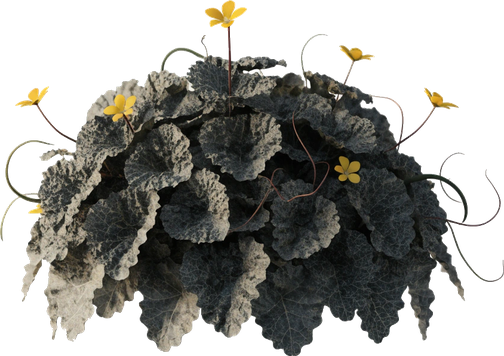
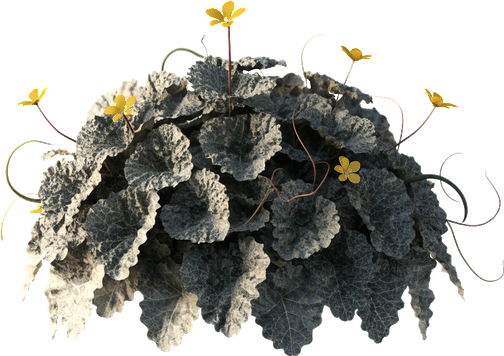
スノードロップのアイコンを追加、スイカの段階 2 の葉を明るく（#66）
- 置き直された icon_snowdrop.png（枯れの絵とは別物、C2PA は Recraft）でアイコンを作り、itemIconRes に登録。WRONG_ICONS を削除
- スイカの段階 2 の葉を段階 3 と同じ明るさに（LEAF_GAIN 1.3、全チャンネル同倍率で色味は同じ、黄色い花は除く）
- prepare_drawable_art.py のアイコンは、このスクリプトで作る作物の分だけ作る（source_art に先に置かれた次の作物の素材は触らない）
- アトラスを詰め直し、ASSET_LEDGER.md・ASSETS.md・ROADMAP.md を更新

diff --git a/app/src/test/java/com/studioguu/miniaturegarden/data/asset/BundledArtTest.kt b/app/src/test/java/com/studioguu/miniaturegarden/data/asset/BundledArtTest.kt
@@ -210,7 +210,7 @@ class BundledArtTest {
     }
 
     @Test
-    fun `snowdrop has its pictures in three stages, standing on the foot of its leaves (#64)`() {
+    fun `snowdrop has its pictures in three stages and its icon, standing on the foot of its leaves (#64, #66)`() {
         assertEquals(3, PlantSpecies.SNOWDROP.growthStages)
         val ids = TileSetDefinition.spriteIdsFor(PlantSpecies.SNOWDROP)
         assertEquals(listOf("plant_snowdrop_stage1", "plant_snowdrop_stage2", "plant_snowdrop_stage3", "plant_snowdrop_withered"), ids)
@@ -218,8 +218,8 @@ class BundledArtTest {
         assertFalse(manifest.assets.any { it.assetId == "plant_snowdrop_stage4" })
         val stages = ids.dropLast(1).map { id -> manifest.assets.single { it.assetId == id } }
         stages.zipWithNext { a, b -> assertTrue("${a.assetId} -> ${b.assetId}", a.width < b.width && a.height < b.height) }
-        // The icon that came was a copy of the withered picture: the seed keeps its emoji for now.
-        assertFalse(File(main, "res/drawable-nodpi/icon_snowdrop.png").exists())
+        // #66: its icon, which first came as a copy of the withered picture, is the right one now.
+        assertTrue(File(main, "res/drawable-nodpi/icon_snowdrop.png").isFile)
     }
 
     @Test

diff --git a/app/src/main/java/com/studioguu/miniaturegarden/ui/UiLabels.kt b/app/src/main/java/com/studioguu/miniaturegarden/ui/UiLabels.kt
@@ -149,6 +149,7 @@ fun itemIconRes(item: GardenItem): Int? = when (item) {
     GardenItem.SEED_MINT -> R.drawable.icon_mint
     GardenItem.SEED_COSMOS -> R.drawable.icon_cosmos
     GardenItem.SEED_WATERMELON -> R.drawable.icon_watermelon
+    GardenItem.SEED_SNOWDROP -> R.drawable.icon_snowdrop
     else -> null
 }
 

diff --git a/tools/prepare_drawable_art.py b/tools/prepare_drawable_art.py
@@ -89,9 +89,13 @@ CUT: dict[str, dict] = {
     "snowdrop": {"white_petals": True},
 }
 
-#: Icons in source_art that are not the picture they are named for, and so are not made (the item
-#: keeps its emoji): icon_snowdrop.png came as a copy of crop_snowdrop_withered.png (#64).
-WRONG_ICONS = {"icon_snowdrop"}
+#: Pictures whose leaves are brought up to the brightness of the rest of their crop, by this gain
+#: (every channel alike, so their colour stays as it is; yellow flowers are left alone). The
+#: watermelon's stage 2 (#66) came with leaves of a near-black grey-green that read as burnt on the
+#: bed: their median brightness was 51 against stage 3's 66.
+LEAF_GAIN: dict[str, float] = {
+    "plant_watermelon_stage2": 1.3,
+}
 
 #: The tulip's flowers (#58): red is its plain stage 3, the others are variants of it.
 TULIP_COLOURS = ["pink", "yellow", "white", "purple", "blue"]
@@ -301,6 +305,16 @@ def simple_stages(name: str, suffix: str) -> list[np.ndarray]:
     return [crop(load_cut(f"crop_{name}{suffix}{n}.png", **CUT.get(name, {}))) for n in (1, 2, 3)]
 
 
+def brighter_leaves(rgba: np.ndarray, gain: float) -> np.ndarray:
+    """[rgba] with all but its yellow flowers [gain] times as bright, each channel alike."""
+    rgb = rgba[:, :, :3].astype(float)
+    r, g, b = rgb[..., 0], rgb[..., 1], rgb[..., 2]
+    yellow = (r > 140) & (g > 110) & (b < 100) & (r - b > 70)
+    out = rgba.copy()
+    out[:, :, :3] = np.where(yellow[..., None], rgb, np.clip(rgb * gain, 0, 255)).astype(np.uint8)
+    return out
+
+
 def to_size(rgba: np.ndarray, size) -> np.ndarray:
     h, w = rgba.shape[:2]
     if isinstance(size, tuple):
@@ -337,7 +351,10 @@ def prepare_crops() -> dict[str, tuple[np.ndarray, dict | None]]:
         sized = [to_size(p, s) for p, s in zip(pictures, STAGES[crop_name])]
         for n, picture in enumerate(sized, start=1):
             override = field_anchor(picture) if crop_name == "wheat" else ANCHORS.get(f"plant_{crop_name}_stage{n}")
-            out[f"plant_{crop_name}_stage{n}"] = (picture, override)
+            asset_id = f"plant_{crop_name}_stage{n}"
+            if asset_id in LEAF_GAIN:
+                picture = brighter_leaves(picture, LEAF_GAIN[asset_id])
+            out[asset_id] = (picture, override)
         if crop_name in WITHERED:
             dead = to_size(crop(load_cut(f"crop_{crop_name}_withered.png", **CUT.get(crop_name, {}))), WITHERED[crop_name])
             out[f"plant_{crop_name}_withered"] = (dead, field_anchor(dead) if crop_name == "wheat" else ANCHORS.get(f"plant_{crop_name}_withered"))
@@ -352,7 +369,8 @@ def prepare_crops() -> dict[str, tuple[np.ndarray, dict | None]]:
 def prepare_icons() -> dict[str, np.ndarray]:
     out = {}
     for path in sorted(SOURCE.glob("icon_*.png")):
-        if path.stem in WRONG_ICONS:
+        # Only the crops prepared here: source_art also holds art for crops still to come (#66).
+        if path.stem.removeprefix("icon_") not in STAGES:
             continue
         rgba = crop(load_cut(path.name, **CUT.get(path.stem.removeprefix("icon_"), {})))
         h, w = rgba.shape[:2]

diff --git a/docs/ASSETS.md b/docs/ASSETS.md
@@ -15,7 +15,7 @@
 | `app/src/main/res/drawable/soil_tilled.png` | 耕した土（畝 3 本）の板（#57）。上面を畑の 1 マスに敷く | 受け取ったまま（1024×1024、白背景）。`GroundSlab.TILLED` |
 | `app/src/main/res/drawable/soil_revived.png` | 鍬で崩しかけた地面（畝の無い、ほぐれた土）の板（#57。#61 から荒れ地と畑の**あいだの段階**。#57〜#60 はたい肥入りの畑に使っていた） | 受け取ったまま（1024×1024、白背景）。`GroundSlab.REVIVED`、`TerrainTextures.broken` |
 | `app/src/main/res/drawable/pond_center.png` | 水面だけの 1 マス（#57）。池どうしのつなぎ目の水と、#61 から四方を池に囲まれた池（池の真ん中）の水面 | 受け取ったまま（1024×1024、白背景）。`GroundSlab.POND_CENTER`、`TerrainTextures.pondWater`。色は池の絵の水にそろえて使う |
-| `app/src/main/res/drawable-nodpi/icon_{tomato,strawberry,carrot,eggplant,wheat,corn,mint,cosmos,watermelon}.png` | 持ち物・ショップのアイコン（#57、ミントは #62、コスモスは #63、スイカは #65） | `tools/prepare_drawable_art.py` が原画から切り抜き、256×256 に |
+| `app/src/main/res/drawable-nodpi/icon_{tomato,strawberry,carrot,eggplant,wheat,corn,mint,cosmos,watermelon,snowdrop}.png` | 持ち物・ショップのアイコン（#57、ミントは #62、コスモスは #63、スイカは #65、スノードロップは #66） | `tools/prepare_drawable_art.py` が原画から切り抜き、256×256 に |
 | `app/src/main/res/drawable/pond.png` | 池（`deco_pond`） | `tools/source_art/pond.png` をそのままコピー（1536×768）。上面の位置は `GroundSlab.POND` |
 | `app/src/main/res/raw/` | BGM 5 曲（タイトル・春・夏・秋・冬）、効果音 8 個（mp3） | 外部で用意されたもの |
 
@@ -58,12 +58,12 @@
   原画は `crop_snowdrop_stage{1..3}.png` と `crop_snowdrop_withered.png`（Recraft、白背景）。大きさ（`STAGES`）は背の低い花として 0.3 / 0.48 / 0.62、枯れ 0.62（枯れは葉が外へ垂れるので段階 3 より横に広い）。
   1 段階目は根元に白いひげ根が出ていたので、葉の束の下端（下から 5 分の 1 のうち、束より 15% 以上広がる最初の行）から下を切り落とした（`without_roots`）。接地点は葉の根元。
   花びらが白く、ふつうの白の切り抜きでは花びらの灰色の陰が背景とみなされ欠けた。花のまわり（絵の上 5 分の 4）だけ、真っ白（246 以上）だけを背景として抜く（`CUT`、`cut_out` の `white_petals`）。茎の間に閉じ込められた真っ白も、広い所だけ抜く。
-  **アイコンは使っていない**：届いた `icon_snowdrop.png` が枯れた絵（`crop_snowdrop_withered.png`）と画素まで同じだったため、作らずに絵文字のまま（`WRONG_ICONS`）。正しい絵が届いたら `WRONG_ICONS` から外して作り直す。
+  アイコン `icon_snowdrop.png` は #64 では枯れた絵の複製が届いたので使わず、#66 で正しい絵に置き直して作った（白い花なので、切り抜きは株と同じ `white_parts`）。
   `crop_soil.SOILLESS` に `snowdrop` を追加。
 - スイカ（#65、4 枚）：`plant_watermelon_stage{1..3}.png` と `_withered.png`（3 段階。#65 で 4 段階から 3 段階にし、コード描画をやめた）。
   原画は `crop_watermelon_stage{1..3}.png` と `crop_watermelon_withered.png`（Recraft、白背景）。2・3 段階目と枯れは茎の根元の無い、低く横に広い葉の山（3 段階目は手前下に縞の実）なので、
   大きさは高さでなく横幅で決めた：1 段階目は高さ 0.3（苗の決まり `CropScale` でさらに縮む）、2 段階目は幅 0.7、3 段階目と枯れは幅 0.85（1 マスを超えない。`BundledArtTest` で確認）。
-  接地点は `asset_packer.py` が絵の下の方に自動で置く（2 段階目 0.98、3 段階目 0.94、枯れ 1.0）。2 段階目の葉は届いた絵のまま黒に近い灰緑（色は変えていない）。
+  接地点は `asset_packer.py` が絵の下の方に自動で置く（2 段階目 0.98、3 段階目 0.94、枯れ 1.0）。2 段階目の葉は届いた絵では黒に近い灰緑で、畑の上で焦げたように見えたため、#66 で 3 段階目の葉と同じ明るさまで上げた（`LEAF_GAIN`、全チャンネル同じ倍率 1.3 なので色味は同じ。黄色い花は上げない）。
   `crop_soil.SOILLESS` に `watermelon` を追加。
 - フェンス 3 枚：`struct_fence.png`（単体の柵）、`struct_fence_post.png`（支柱）、`struct_fence_rail.png`（現在は未使用）
 
@@ -77,7 +77,7 @@
 
 `domain/model/GardenItem.kt` の全 35 品。並びはショップの棚（種・建物・飾り）ごと。
 「確定アセット」は庭に置いたときの絵が受け取った画像素材のもの、「コード描画（仮置き）」は絵が無くプログラムで描いているもの。
-アイコンは、作物 9 種（トマト・イチゴ・ニンジン・ナス・小麦・トウモロコシ・ミント・コスモス・スイカ）だけが画像（`res/drawable-nodpi/icon_*.png`、`itemIconRes`）、ほかは絵文字（`itemEmoji`）。
+アイコンは、作物 10 種（トマト・イチゴ・ニンジン・ナス・小麦・トウモロコシ・ミント・コスモス・スイカ・スノードロップ）だけが画像（`res/drawable-nodpi/icon_*.png`、`itemIconRes`）、ほかは絵文字（`itemEmoji`）。
 
 | 棚 | 品名（id） | 値段 | 解放 | 庭での絵 | 素材 |
 |---|---|---|---|---|---|
@@ -85,7 +85,7 @@
 | 種 | ひまわりの種（`seed_sunflower`） | 35 | Lv2 | 確定アセット | `plant_sunflower_*`（#58） |
 | 種 | バラの苗（`seed_rose`） | 60 | Lv4 | 確定アセット（旧画風） | `plant_rose_*`（4 段階） |
 | 種 | コスモスの種（`seed_cosmos`） | 20 | 最初から | 確定アセット | `plant_cosmos_*`（#63、3 段階）、アイコン画像あり |
-| 種 | スノードロップの球根（`seed_snowdrop`） | 20 | 最初から | 確定アセット | `plant_snowdrop_*`（#64、3 段階）。アイコンは絵文字のまま（届いた絵が枯れた絵の複製だった） |
+| 種 | スノードロップの球根（`seed_snowdrop`） | 20 | 最初から | 確定アセット | `plant_snowdrop_*`（#64、3 段階）、アイコン画像あり（#66） |
 | 種 | ミントの苗（`seed_mint`） | 15 | 最初から | 確定アセット | `plant_mint_*`（#62、3 段階）、アイコン画像あり |
 | 種 | トマトの苗（`seed_tomato`） | 20 | 最初から | 確定アセット | `plant_tomato_*`（#57）、アイコン画像あり |
 | 種 | イチゴの苗（`seed_strawberry`） | 20 | 最初から | 確定アセット | `plant_strawberry_*`（#57）、アイコン画像あり |
@@ -150,7 +150,7 @@
 | `building_windmill_blades.jpg` | 風車の羽根（#40）。同じく白と灰色の市松模様（約 12px）と、白いにじみが描き込まれていた。色で抜いた |
 | `tile_grass_iso.png` | 芝生（#57、受け取ったときは `res/drawable/tile_grass.png`）。白背景のアイソメの芝の板（1024×1024）。`prepare_drawable_art.flat_lawn` が上面を真上から見た正方形（720 px）に戻し、`flat_to_tile` で中央の正方形の半分（`share=0.5`）を 2:1 のひし形へ貼り、ぼかし 1.2px、厚み 55px の側面を足して `tile_grass` に。細かい葉のままだとスマホで約 7 分の 1 に縮んだとき砂嵐のようにちらつくため、葉を大きく柔らかくしている。#53 の `tile_lawn_flat.png` はこれに置き換えて削除 |
 | `crop_*.png`（51 枚） | 作物の原画（#57・#58・#62〜#65）。トウモロコシ・ナス・小麦・ひまわり・ミント・コスモス・スノードロップ・スイカは `_stage1`〜`3` と `_withered`、トマト・イチゴは `_1`〜`3` と `_withered`、ニンジンは `_1`・`_3`・`_withered`、チューリップは `_stage1`・`_stage2` と 6 色の `_<色>_stage3` | `prepare_drawable_art.py` が切り抜いて `raw_assets/plant_*` に |
-| `icon_*.png`（10 枚） | アイコンの原画（#57、ミントは #62、コスモスは #63、スイカは #65）。`icon_snowdrop.png`（#64）は枯れた絵の複製だったので使っていない | `prepare_drawable_art.py` が切り抜いて `res/drawable-nodpi/` に |
+| `icon_*.png`（10 枚） | アイコンの原画（#57、ミントは #62、コスモスは #63、スイカは #65）。`icon_snowdrop.png` は #64 では枯れた絵の複製だったが、#66 で正しい絵に置き直して使っている | `prepare_drawable_art.py` が切り抜いて `res/drawable-nodpi/` に |
 | `tile_soil_flat.png` | 耕した土（#53）。同じく真上からの写真（受け取ったときは `floor_tilled.png`）。正方形全体をひし形へ、厚み 33px で `floor_tilled` に（温室の床でだけ使う） |
 | `pond.png` | 池（#53）。透過ありのアイソメの絵（丸太の枠と石）。#54 から `res/drawable/pond.png` にコピーして池（`deco_pond`）に使用。`raw_assets/` に置くと詰められて `CodeArtTest` が落ちるので、原画はここに置いてある |
 | `tile_grass_default.png` | **#53 から未使用**。芝生のタイル（#40）。縁に白いにじみ。1 マス幅に縮め、上面が 2:1 のひし形になるよう縦に伸ばした（元は約 2.35:1） |

diff --git a/docs/ROADMAP.md b/docs/ROADMAP.md
@@ -66,6 +66,7 @@
 | 60 | 作物の大きさと地面：苗を小さく（高さ 0.28・幅 0.22 まで）、大根は幅 0.85 マスまで、小麦はどの段階も畑一面の大きさのまま（`CropScale.FIELDS`）。ナスのアンカーを株が地面に着く高さに（浮いて見えた）、ニンジンの 3 段階目は葉と根の肩だけに（アトラスを詰め直し）。育つ途中の芝生を半透明の重ね塗りから不透明な株の切り抜きに（`LawnPatches`）、草の房を葉の形に。小石・野の花を 1 マスを覆う描画に。地面のアセットを全数確認し、状態を `ASSETS.md` に表で記載 |
 | 59 | 実機の手直し：トーストを 1 つずつの順番待ちに（同じ文言はまとめる）、浮かぶ収穫額・図鑑の一言は同じ種類を 1 枚にまとめる。肥料は栄養だけを満タンにし、成長は進めない（`fertilizerBoost` を削除）。起動時の芽のマーク（`LoadingSprout`）と Android 12+ のスプラッシュのアイコンをやめ、空のまま見本の庭・庭をフェードイン。チューリップの色を株・収穫・図鑑で一致させた（収穫した色を図鑑に記録し、絵はその色、ページに咲かせた色の一覧） |
 | 57 | 受け取った drawable の絵を入れた：作物 4 種を追加（ニンジン Lv2 春秋・ナス Lv3 夏・何度も収穫・小麦 Lv4 秋・トウモロコシ Lv5 夏。値はレベルごとの時給の並びと「育つのが遅いほど高い」に合わせた）、トマト・イチゴの 1〜3 段階を新しい絵に。白背景の絵を切り抜く `tools/prepare_drawable_art.py`（段階どうしの株数・大きさをそろえる、ニンジンの 2 段階目と 4 種の枯れた絵を作る）。荒れ地を新しい絵に、畑の土を `soil_tilled.png`（たい肥入りは `soil_revived.png`）の絵に、芝生を `tile_grass_iso.png` から、池のつなぎ目の水を `pond_center.png` から（色は池の水に合わせる）。持ち物・ショップ・木箱で作物 6 種のアイコンを絵に（`ItemIcon`）。図鑑 35 ページ、種 18 種、アトラス 57 枚 |
+| 66 | #64・#65 の残り：スノードロップのアイコンを置き直された正しい絵で作り（`WRONG_ICONS` を削除）、スイカの 2 段階目の葉を 3 段階目と同じ明るさに（`LEAF_GAIN` 1.3、色味は同じ）。`prepare_drawable_art.py` のアイコンは、このスクリプトで作る作物の分だけ作る（次の作物の素材が `source_art/` に先に置かれていても触らない） |
 | 65 | スイカを Recraft の絵に：段階を 4 から 3 に、`prepare_drawable_art.py` にスイカ（1 段階目は高さ 0.3、2 段階目は幅 0.7、3 段階目と枯れは幅 0.85。横に広い葉の山なので幅で決めた）、`crop_soil.SOILLESS` に追加、アトラス 75 枚、アイコンを絵に、`CropArt.kt` のスイカを削除 |
 | 64 | スノードロップを Recraft の絵に：段階を 4 から 3 に、`prepare_drawable_art.py` にスノードロップ（0.3 / 0.48 / 0.62、枯れ 0.62）、段階 1 のひげ根を切り落とす（`without_roots`）、白い花びらを欠かさない切り抜き（`white_petals`）、`crop_soil.SOILLESS` に追加、`CropArt.kt` のスノードロップを削除。届いた `icon_snowdrop.png` は枯れた絵の複製だったので使わず、アイコンは絵文字のまま（`WRONG_ICONS`） |
 | 63 | コスモスを Recraft の絵に：段階を 4 から 3 に、`prepare_drawable_art.py` にコスモス（0.30 / 0.64 / 0.85、枯れ 0.85。幅も高さも 1→2→3 で大きく）、細い葉の白いもやを取るため `cut_out` に絵全体で白との混ざりを戻す設定（`CUT`、`throughout`・`solid`。ほかの作物は変わらない）、`crop_soil.SOILLESS` にコスモス、アトラス 67 枚、アイコンを絵に、`CropArt.kt` のコスモスを削除。ついでに `IsometricEngineTest` の外側の判定を庭の標準 11×11 に合わせた（#56 からの失敗） |

diff --git a/docs/ASSET_LEDGER.md b/docs/ASSET_LEDGER.md
@@ -48,9 +48,9 @@
 | パプリカ（`plant_paprika`） | Lv4 | 🟡 | 🟡 | 🟡 | ➖ | 🟡 | ⬜ 絵文字 | Recraft（#39） |
 | 大根（`plant_daikon`） | Lv2 | 🟡 | 🟡 | 🟡 | ➖ | 🟡 | ⬜ 絵文字 | Recraft（#39）。段階 3 は描くときに幅 0.85 マスまで縮める（#60） |
 | コスモス（`plant_cosmos`） | 最初から | ✅ | ✅ | ✅ | ➖ | ✅ | ✅ | Recraft（#63。C2PA を grep で確認）。#63 で 4 段階から 3 段階に。葉が細く、白との混ざりを絵全体で戻して切り抜いた |
-| スノードロップ（`plant_snowdrop`） | 最初から | ✅ | ✅ | ✅ | ➖ | ✅ | ⬜ 絵文字 | Recraft（#64。C2PA を grep で確認）。#64 で 4 段階から 3 段階に。段階 1 はひげ根を切り落とし、白い花びらは花のまわりだけ弱く切り抜いた。**アイコンは届いた `icon_snowdrop.png` が枯れた絵の複製だったため未使用**（正しい絵待ち） |
+| スノードロップ（`plant_snowdrop`） | 最初から | ✅ | ✅ | ✅ | ➖ | ✅ | ✅ | Recraft（#64。C2PA を grep で確認）。#64 で 4 段階から 3 段階に。段階 1 はひげ根を切り落とし、白い花びらは花のまわりだけ弱く切り抜いた。アイコンは #64 で届いた絵が枯れた絵の複製だったため、#66 で置き直したもの（Recraft） |
 | ミント（`plant_mint`） | 最初から | ✅ | ✅ | ✅ | ➖ | ✅ | ✅ | Recraft（#62。C2PA を grep で確認）。#62 で 4 段階から 3 段階に |
-| スイカ（`plant_watermelon`） | Lv3 | ✅ | ✅ | ✅ | ➖ | ✅ | ✅ | Recraft（#65。C2PA を grep で確認）。#65 で 4 段階から 3 段階に。2・3 段階目と枯れは横に広い葉の山で、幅で大きさを決めた（3 段階目と枯れは 0.85 マス）。2 段階目の葉は黒に近い灰緑 |
+| スイカ（`plant_watermelon`） | Lv3 | ✅ | ✅ | ✅ | ➖ | ✅ | ✅ | Recraft（#65。C2PA を grep で確認）。#65 で 4 段階から 3 段階に。2・3 段階目と枯れは横に広い葉の山で、幅で大きさを決めた（3 段階目と枯れは 0.85 マス）。2 段階目の葉は黒に近い灰緑だったので、#66 で 3 段階目と同じ明るさまで上げた（色味は同じ） |
 | ラベンダー（`plant_lavender`） | Lv3 | ⬜ | ⬜ | ⬜ | ⬜ | ⬜ | ⬜ 絵文字 | 同上 |
 | カボチャ（`plant_pumpkin`） | Lv5 | ⬜ | ⬜ | ⬜ | ⬜ | ⬜ | ⬜ 絵文字 | 同上 |
 | ポインセチア（`plant_poinsettia`） | Lv5 | ⬜ | ⬜ | ⬜ | ⬜ | ⬜ | ⬜ 絵文字 | 同上 |
@@ -63,7 +63,7 @@
 | | ✅ 採用 | 🟡 旧画風 | 🔁 代用 | ⬜ 仮 |
 |---|---|---|---|---|
 | 段階・枯れの枠（75） | 46 | 13 | 1 | 15 |
-| アイコン（18） | 9 | — | — | 9 |
+| アイコン（18） | 10 | — | — | 8 |
 
 ## 建物
 
@@ -100,7 +100,7 @@
 
 ## ショップのアイコン
 
-ショップ・持ち物・木箱で品物に出す小さな絵。**絵があるのは、上の作物の表でアイコンが ✅ の作物だけ**（いまはトマト・イチゴ・ニンジン・ナス・小麦・トウモロコシ・ミント・コスモス・スイカ、すべて Recraft。スノードロップは届いた絵が枯れた絵の複製で、絵文字のまま）。
+ショップ・持ち物・木箱で品物に出す小さな絵。**絵があるのは、上の作物の表でアイコンが ✅ の作物だけ**（いまはトマト・イチゴ・ニンジン・ナス・小麦・トウモロコシ・ミント・コスモス・スイカ・スノードロップ、すべて Recraft）。
 ほかの種と、建物・飾りはすべて ⬜ 絵文字（`UiLabels.itemEmoji`）。
 
 ## 生き物
